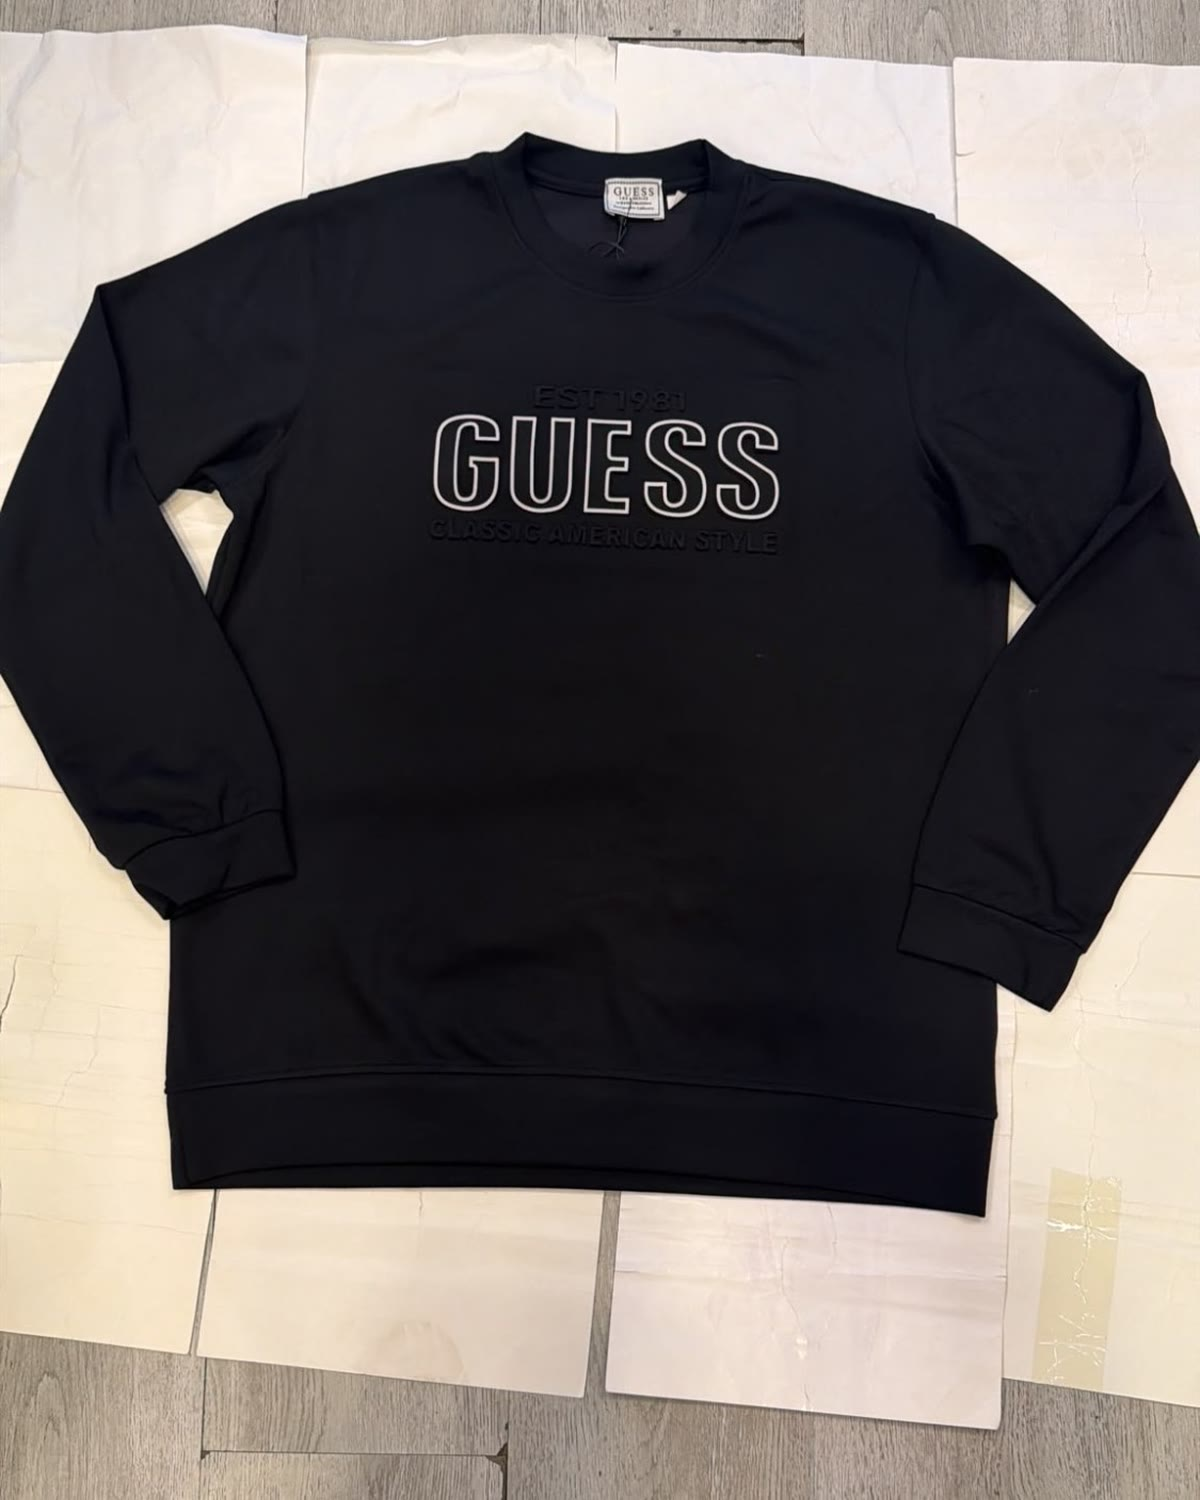
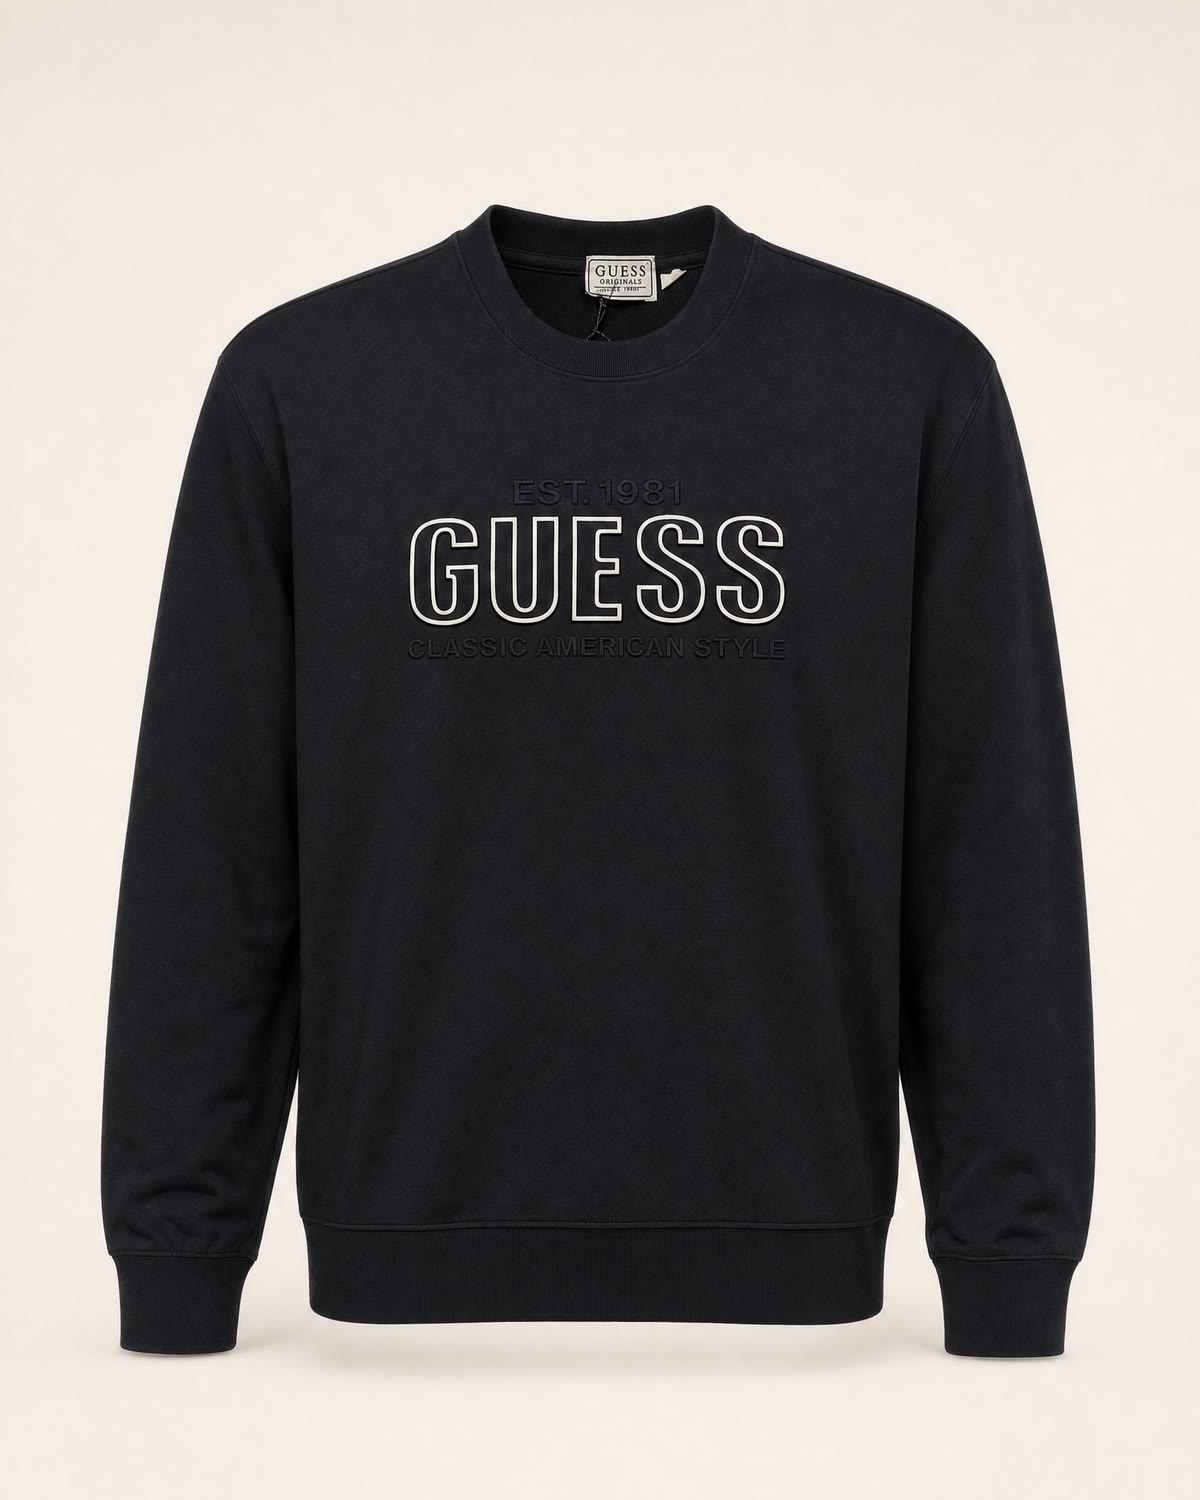
Add packshots for six tops; product pages open on the on-model shot
In 'ikisi' mode the card keeps the grey-backdrop packshot while the product
page gallery now starts with the AI on-model photo.

Claude-Session: https://claude.ai/code/session_01HrBi656JhsDWqc31aXWW3K

diff --git a/docs/products/README.md b/docs/products/README.md
@@ -12,7 +12,7 @@
    | `orijinal` (boşsa bu) | Kendi fotoğrafınız 4:5 kırpılır | Ücretsiz |
    | `urun` | Yapay zekâ ürünü açık gri stüdyo fonunda, mankensiz "packshot" olarak yeniden çeker | ≈ $0,05 |
    | `manken` | Yapay zekâ ürünü `manken` sütunundaki mankene giydirir; kartta bu görsel çıkar, ürün sayfasında kendi fotoğrafınız da durur | ≈ $0,05 |
-   | `ikisi` (önerilen) | Kartta gri fonlu ürün fotoğrafı, ürün sayfasında ayrıca mankenli görsel | ≈ $0,10 |
+   | `ikisi` (önerilen) | Kartta (giriş sayfası, listeler) gri fonlu ürün fotoğrafı; ürüne tıklayınca sayfa mankenli görselle açılır | ≈ $0,10 |
 
 4. Çalıştırın:
 
